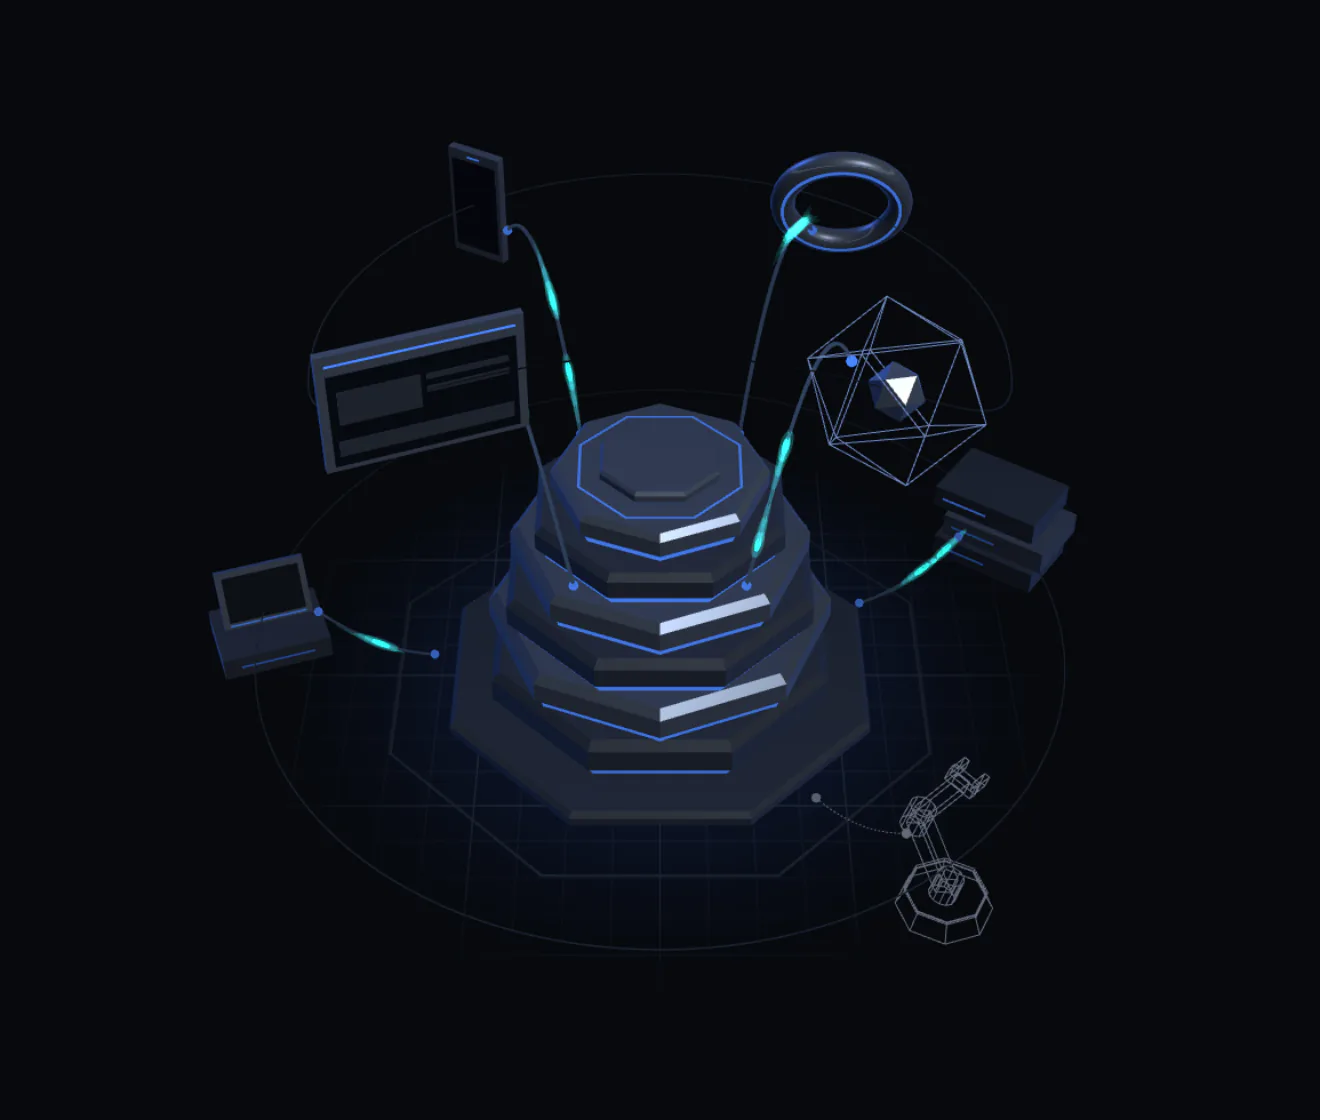
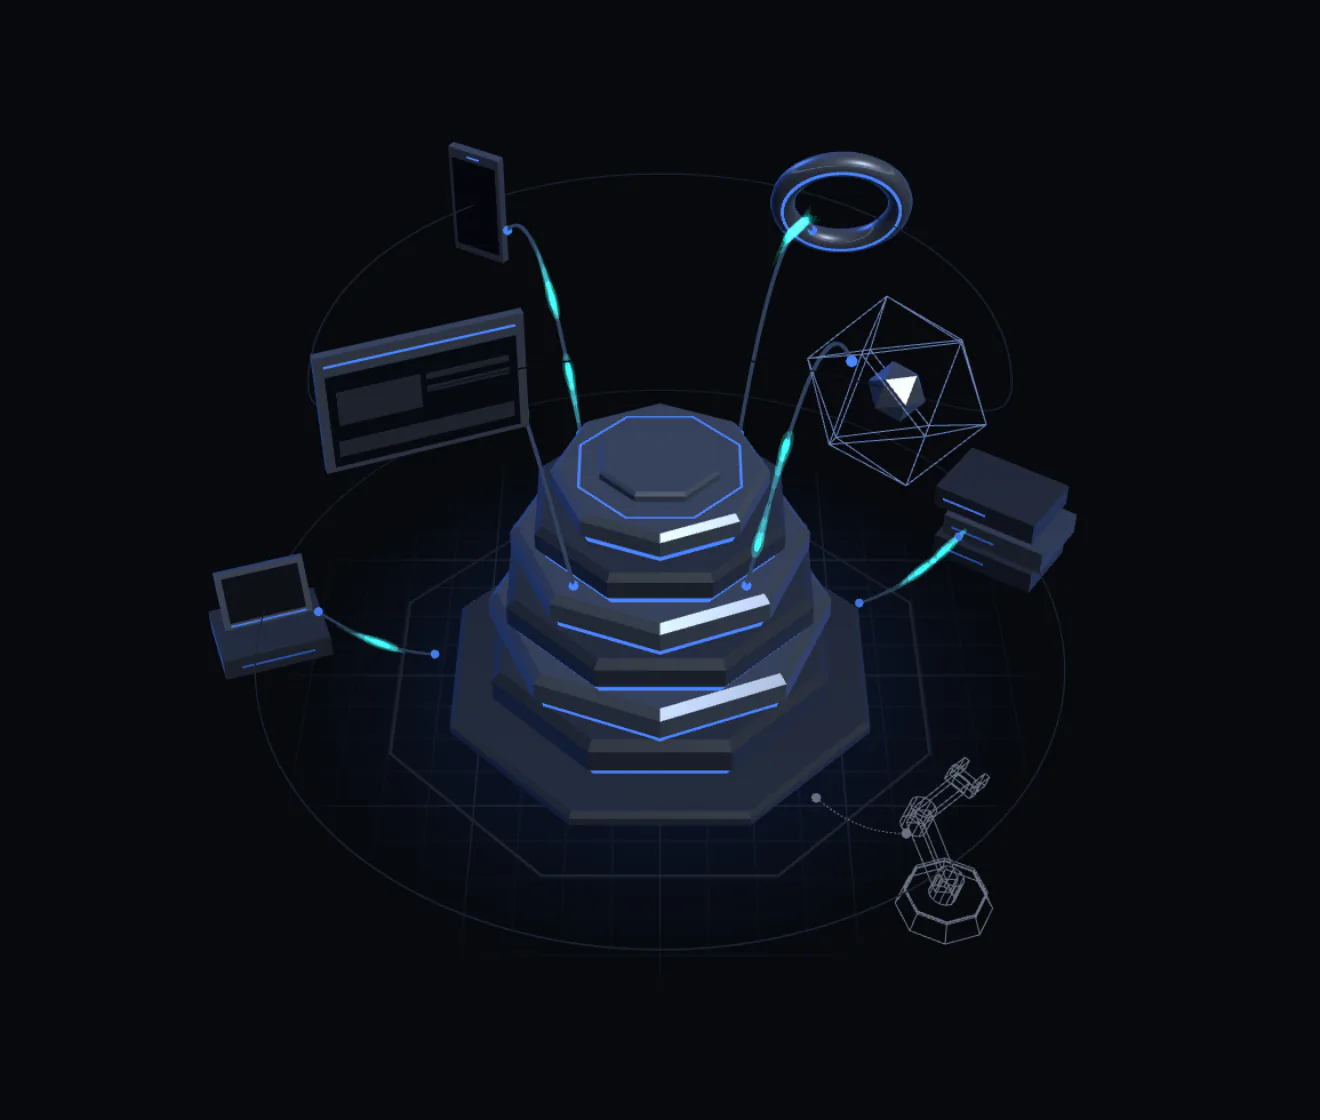
Scene v2: the fog starts behind the core's face, not in front of it
The v2 fog began at CAM_DIST - 2.5, which at the fit-width camera's 11.4
put the core itself about 29% into it: the one object the studio light
was added for came out dimmed, and its seams read at 71% of their blue.
It now starts at CAM_DIST - 0.8 and ends at CAM_DIST + 7, so the core and
the front tier are clear and only the back tier recedes (core mean
luminance 29-34 -> 32-38 of 255; nothing flashes: 0.25 at most per 0.1s).

The t = 0 frame changed, so the v2 poster is re-rendered under the same
name: v2 has never been deployed. probe-scene: the 16px band is the
ground at 660 and 467 across t = 0-100s and the parallax extremes, the
t = 0 frame matches the poster (0.78 mean, 0.51% of pixels >24; the
GPU's frame 0.82 / 0.77%), and the watchdog still fades (23%, 39%).

diff --git a/components/field/scene.ts b/components/field/scene.ts
@@ -253,9 +253,11 @@ export function createScene(canvas: HTMLCanvasElement, opts: SceneOptions = {}):
   const mat = <T extends Material>(x: T): T => (materials.push(x), x);
 
   const scene = new Scene();
-  /* depth, not a cut-off: it follows the camera. Steep enough that the back
-     tier recedes and the front comes forward. */
-  scene.fog = new Fog(GROUND, CAM_DIST - 2.5, CAM_DIST + 6);
+  /* depth, not a cut-off: it follows the camera. It starts just in front of
+     the core's centre, so the core and the front tier are clear and the back
+     tier recedes. Starting at CAM_DIST - 2.5 it dimmed the core itself by
+     about 29%, the one thing that should lead the picture. */
+  scene.fog = new Fog(GROUND, CAM_DIST - 0.8, CAM_DIST + 7);
   const camera = new PerspectiveCamera(FOV, 1, 0.1, 60);
   const target = new Vector3(0, CAM_TARGET_Y, 0);
 

diff --git a/CLAUDE.md b/CLAUDE.md
@@ -612,7 +612,9 @@ for more than five seconds has a pause control.
     second on each seam, and exactly zero at t = 0. The camera follows the
     pointer by at most 6 degrees of yaw, eased. Nothing is fast and nothing
     flashes: over 30 seconds the core's mean luminance never moves more than
-    0.23 (of 255) in a tenth of a second.
+    0.25 (of 255) in a tenth of a second (on the GPU, sampled every 0.1s). The
+    fog starts just in front of the core's centre (`CAM_DIST - 0.8`), so the
+    core and the front tier are clear and only the back recedes.
   - **The poster** is `public/hero/scene-poster-v2-{660,1320}.{avif,webp}`, the
     scene's first frame (t = 0), rendered by `scripts/render-scene-poster.mjs`.
     It is a plain `<img>` in a `<picture>`, the LCP element, with the image
@@ -1340,7 +1342,7 @@ three bump or a new import pushes it past 180KB, import from
 `three/src/...` module paths.
 
 **Re-measured 2026-09-28, with the scene's v2** (the studio, the comets, the
-Lab robot, the fit-width camera and the watchdog's fades): **143,914 bytes,
+Lab robot, the fit-width camera and the watchdog's fades): **143,913 bytes,
 140.5KB**, gzipped at level 6 as served — the same as its `encodedBodySize`
 under `next start` — 574KB raw, requested at 1.3s against a 71ms load event.
 The same chunk before v2 measured 142,287 bytes (139.0KB; the 137.9KB above
@@ -1357,10 +1359,11 @@ JavaScript. Check 25 holds the 180KB: it gzips each scene file as served (level
 6), because its WebGL runs re-serve scripts through the worker hook and their
 resource timings are not the wire.
 
-**The posters:** `scene-poster-v2-660.avif` 6.8KB, `-1320.avif` 14.3KB,
-`-660.webp` 12.6KB, `-1320.webp` 30.6KB (AVIF 4:4:4 at quality 56, WebP 82;
+**The posters:** `scene-poster-v2-660.avif` 7.5KB, `-1320.avif` 15.6KB,
+`-660.webp` 13.8KB, `-1320.webp` 33.0KB (AVIF 4:4:4 at quality 56, WebP 82;
 2026-09-28). The v2 frame is larger and lit (about 20% of its pixels off the
-ground), so each file is about a fifth heavier than v1's:
+ground), so each file is about a third heavier than v1's — 1.8KB more on the
+phone's LCP path (the 660 AVIF), with the mobile LCP at 844ms (check 29):
 `scene-poster-v1-660.avif` 5.7KB, `-1320.avif` 11.5KB,
 `-660.webp` 10.3KB, `-1320.webp` 24.8KB.
 The step-3 field posters they replace were 33.6KB and 87.4KB as AVIF. A dark
